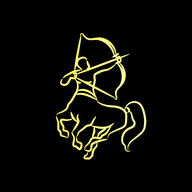
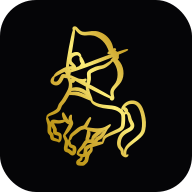
Make the centaur the single brand mark across every surface
The mark was fragmented three ways: an abstract circle-and-zigzag SVG in the
landing nav and on the password-reset page, the centaur on the app splash, and
a blue #38bdf8 diamond favicon that sat outside the gold-on-black palette
entirely.

Trace the centaur line art to a vector so one asset can serve all of them, and
regenerate the icon set from it. The PNG icons keep the figure inside the
Android maskable safe circle (furthest artwork pixel sits at 0.382 of icon
width, under the 0.40 limit) and thicken the stroke at small sizes, where
single-weight line art otherwise disappears.

diff --git a/src/routes/index.tsx b/src/routes/index.tsx
@@ -1319,22 +1319,7 @@ function LandingPage() {
               setMobileNavOpen(false);
             }}
           >
-            <svg viewBox="0 0 40 40" fill="none" height="34" width="34">
-              <circle cx="20" cy="20" r="18" stroke="url(#ng1)" strokeWidth="1.4" />
-              <path
-                d="M11 27 L17 13 L23 22 L27 11"
-                stroke="url(#ng1)"
-                strokeWidth="2"
-                strokeLinecap="round"
-                strokeLinejoin="round"
-              />
-              <defs>
-                <linearGradient id="ng1" x1="0" y1="0" x2="40" y2="40">
-                  <stop stopColor="#fdee79" />
-                  <stop offset="1" stopColor="#ac8400" />
-                </linearGradient>
-              </defs>
-            </svg>
+            <img src="/milon-centaur.svg" alt="" width={24} height={34} />
             <span className="logo-word gold-text">MILŌN</span>
           </a>
           <button

diff --git a/src/routes/reset-password.tsx b/src/routes/reset-password.tsx
@@ -59,15 +59,7 @@ function ResetPasswordPage() {
 
         {/* Logo */}
         <div style={{ display:"flex", alignItems:"center", gap:10, marginBottom:32 }}>
-          <svg viewBox="0 0 40 40" fill="none" height="30" width="30">
-            <circle cx="20" cy="20" r="18" stroke="url(#rp-ng1)" strokeWidth="1.4"/>
-            <path d="M11 27 L17 13 L23 22 L27 11" stroke="url(#rp-ng1)" strokeWidth="2" strokeLinecap="round" strokeLinejoin="round"/>
-            <defs>
-              <linearGradient id="rp-ng1" x1="0" y1="0" x2="40" y2="40">
-                <stop stopColor="#fdee79"/><stop offset="1" stopColor="#ac8400"/>
-              </linearGradient>
-            </defs>
-          </svg>
+          <img src="/milon-centaur.svg" alt="" width={21} height={30}/>
           <span style={{ fontSize:18, fontWeight:700, letterSpacing:"0.04em", color:"#d4af37" }}>MILŌN</span>
         </div>
 

diff --git a/src/styles/landing.css b/src/styles/landing.css
@@ -137,7 +137,7 @@ html[data-landing="1"] nav.scrolled{border-bottom-color:var(--line);background:c
 html[data-landing="1"] nav .wrap{display:flex;align-items:center;justify-content:space-between;height:72px;transition:height .4s var(--ease)}
 html[data-landing="1"] nav.scrolled .wrap{height:62px}
 html[data-landing="1"] .logo{display:flex;align-items:center;gap:12px;text-decoration:none;color:var(--ink)}
-html[data-landing="1"] .logo svg{height:34px;width:auto}
+html[data-landing="1"] .logo svg,html[data-landing="1"] .logo img{height:34px;width:auto}
 html[data-landing="1"] .logo-word{font-weight:800;letter-spacing:.32em;font-size:18px}
 html[data-landing="1"] nav .links{display:flex;gap:28px;align-items:center;font-size:13.5px;letter-spacing:.06em}
 html[data-landing="1"] nav .links a{color:var(--ink-dim);text-decoration:none;transition:color .2s;position:relative}

diff --git a/src/components/splash-screen.tsx b/src/components/splash-screen.tsx
@@ -30,7 +30,7 @@ export function SplashScreen() {
       }}
     >
       <img
-        src="/milon-centaur.png"
+        src="/milon-centaur.svg"
         alt=""
         style={{
           height: "clamp(140px, 22vw, 220px)",
